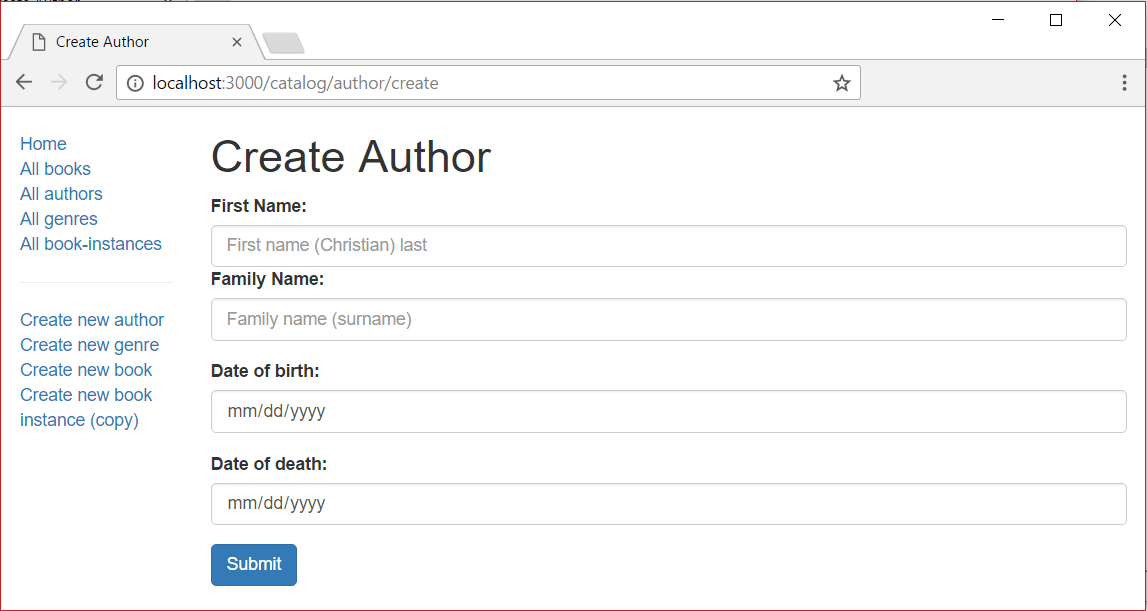
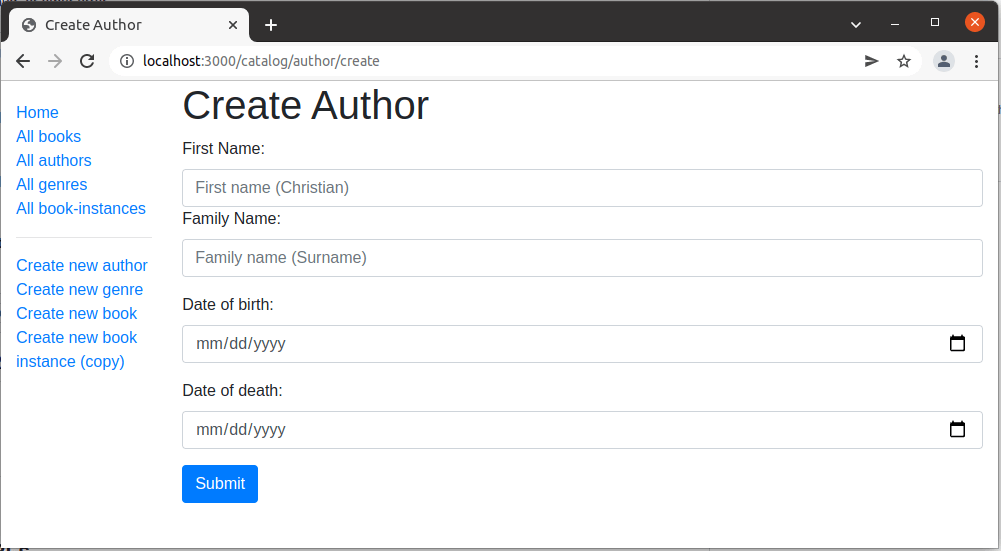
Fix up text and image for Christian name of Author create form: (#14120)

Changed region(s): [[0.0, 0.0, 1.0, 1.0], [0.0, 0.4628, 0.1548, 0.7096]]

diff --git a/files/en-us/learn/server-side/express_nodejs/forms/create_author_form/index.md b/files/en-us/learn/server-side/express_nodejs/forms/create_author_form/index.md
@@ -116,9 +116,9 @@ block content
   form(method='POST' action='')
     div.form-group
       label(for='first_name') First Name:
-      input#first_name.form-control(type='text' placeholder='First name last name' name='first_name' required='true' value=(undefined===author ? '' : author.first_name) )
+      input#first_name.form-control(type='text' placeholder='First name (Christian)' name='first_name' required='true' value=(undefined===author ? '' : author.first_name) )
       label(for='family_name') Family Name:
-      input#family_name.form-control(type='text' placeholder='Family name (surname)' name='family_name' required='true' value=(undefined===author ? '' : author.family_name))
+      input#family_name.form-control(type='text' placeholder='Family name (Surname)' name='family_name' required='true' value=(undefined===author ? '' : author.family_name))
     div.form-group
       label(for='date_of_birth') Date of birth:
       input#date_of_birth.form-control(type='date' name='date_of_birth' value=(undefined===author ? '' : author.date_of_birth) )
